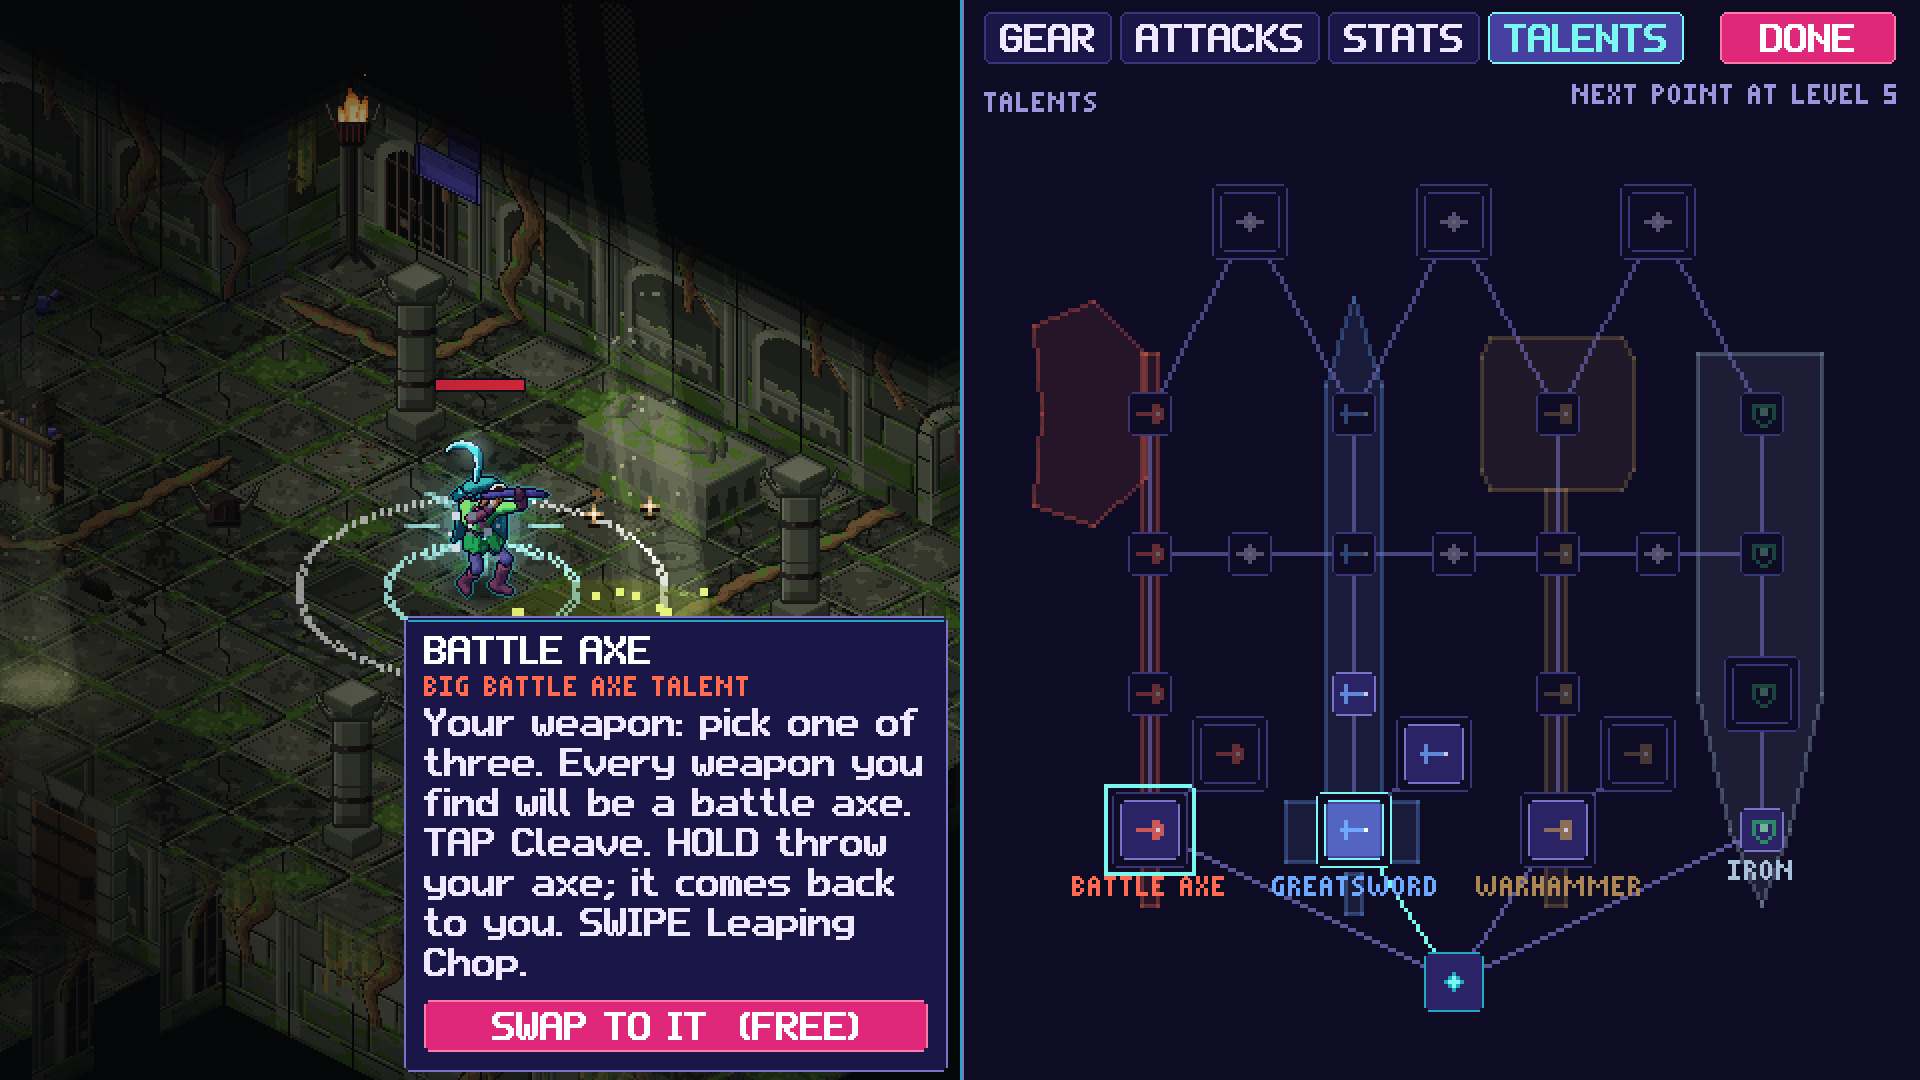
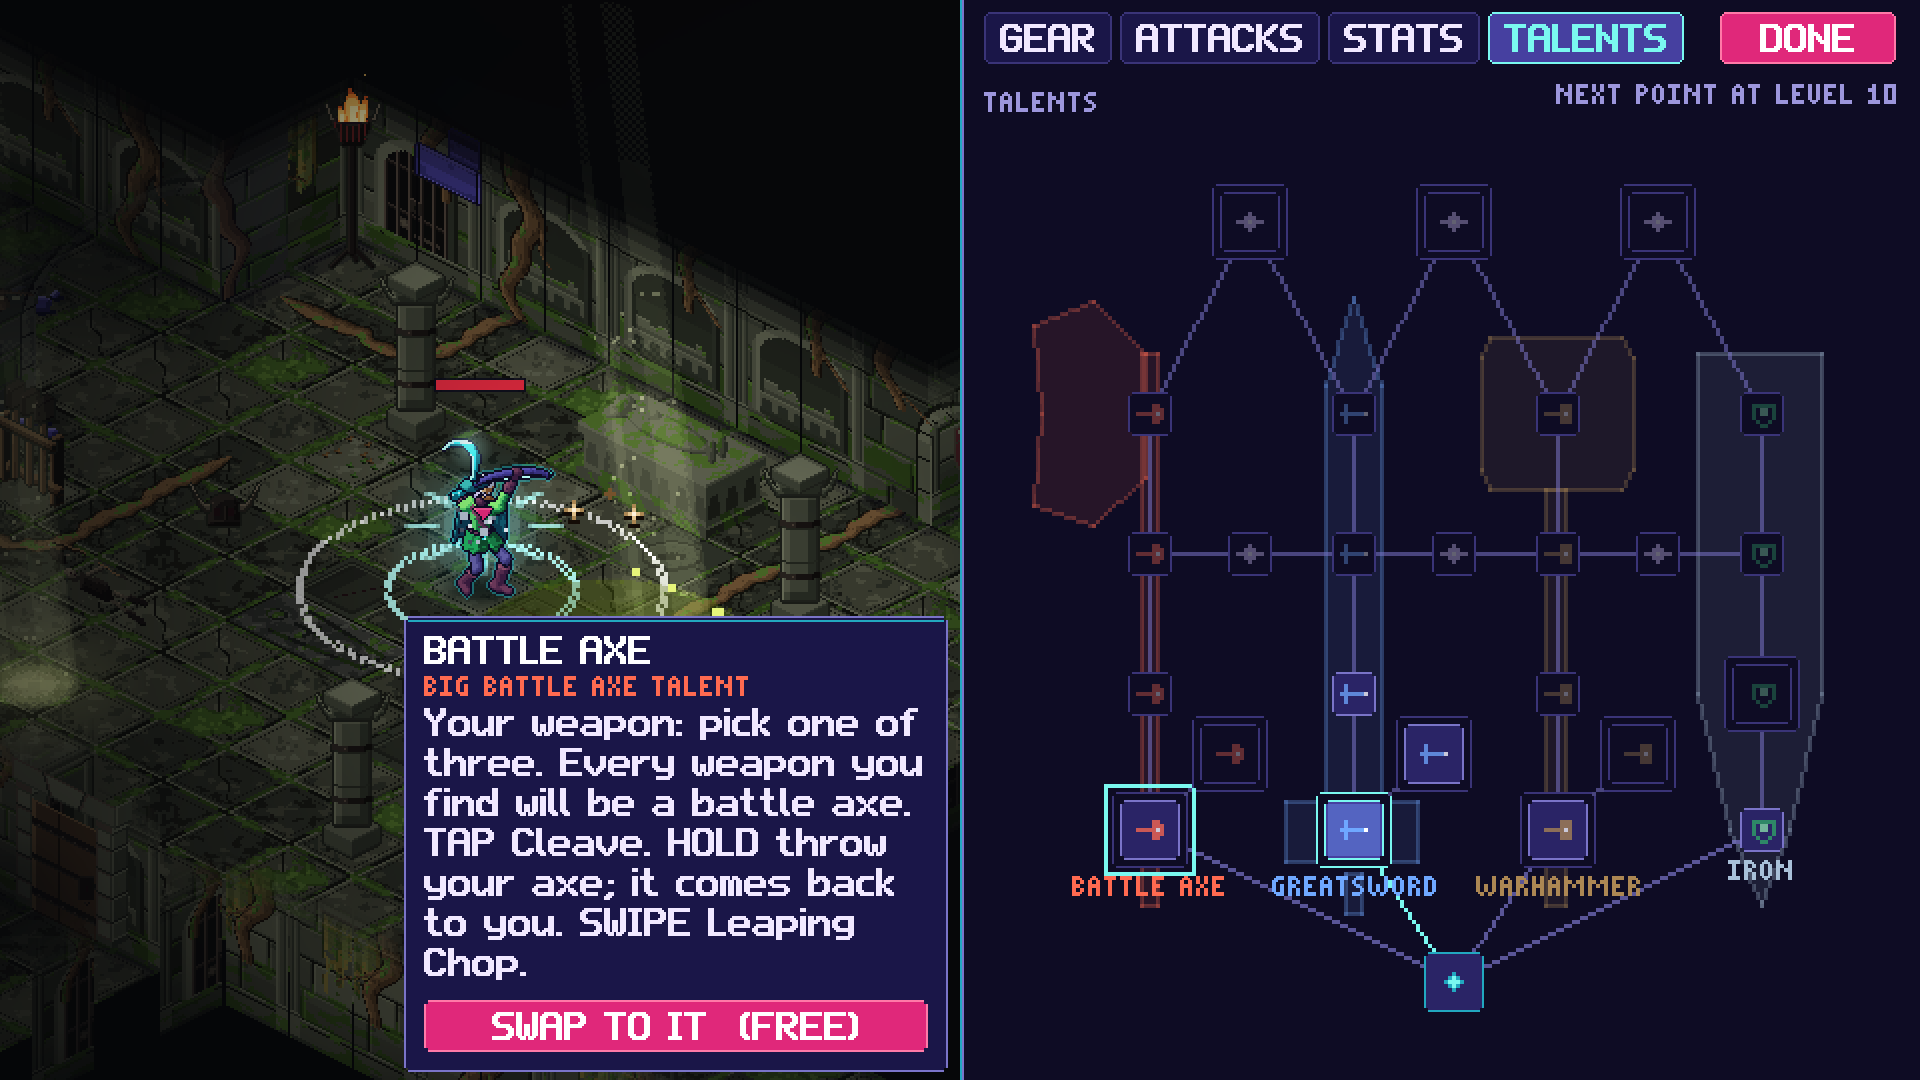
Godot: the Warrior's weapon is his first talent point, given early (no free point)
His word: "And I don't like that warrior starts with a talent point.  How can we allow the switch at level 1 without just
giving the player a free talent point?" His weapon counts among his points again (talents.gd spent), as the game has
it, but it is his from level 1 and swapped for nothing more while its path holds nothing else: level 5's point is the
one his weapon took, his next to spend comes at level 10 (next_point; NEXT POINT AT LEVEL 10 over his tree, and in a
talent's "Next point at level" line), and over the game he has ten, as every hero, one of them his weapon. Talents
82/82.

Claude-Session: https://claude.ai/code/session_01JYSqoVEeoMVs56KGNxXie3

Changed region(s): [[0.2188, 0.3972, 0.3438, 0.5194], [0.8125, 0.0611, 0.9688, 0.0917]]

diff --git a/godot/README.md b/godot/README.md
@@ -1284,11 +1284,15 @@ warrior has an issue where he starts with the greatsword but would have to pay a
 he can swap to axe or hammer at level 1.”, “And make sure the words, talents, and uniques all work together correctly to
 augment attacks.  I want things to compound as they are added to attacks or abilities.”
 
-- **The Warrior's weapon, free** (`talents.gd` is_weapon, spent, starting, swap_out; `inventory.gd`, `talents_page.gd`,
-  `hud.gd`): his weapon costs no point; the greatsword his as he starts; the battle axe or the warhammer taken in its place
-  at any level, anywhere, for nothing (SWAP TO IT (FREE) on its card), so long as nothing more on the old one's path is
-  taken (“Undo the greatsword's talents first”); a weapon is never undone, only swapped (“Take another to swap”); an old save
-  with no weapon given the greatsword. `--only=talents`: 82 checks (a new Warrior at level 1 swapping to the axe and back).
+- **The Warrior's weapon, his first point given early** (`talents.gd` is_weapon, spent, next_point, starting, swap_out;
+  `inventory.gd`, `talents_page.gd`, `hud.gd`): first made free, then, at his word the morning after (“And I don't like that
+  warrior starts with a talent point.  How can we allow the switch at level 1 without just giving the player a free talent
+  point?”), his first point as the game has it, but his from level 1: the greatsword his as he starts; the battle axe or the
+  warhammer taken in its place at any level, anywhere, for nothing more (SWAP TO IT (FREE) on its card), so long as nothing
+  more on the old one's path is taken (“Undo the greatsword's talents first”); a weapon is never undone, only swapped (“Take
+  another to swap”). It counts among his points: the point level 5 brings is the one his weapon took, so his next to spend comes
+  at level 10 (NEXT POINT AT LEVEL 10 over his tree), and over the game he has ten, as every hero has, one of them his weapon.
+  `--only=talents`: 82 checks (a new Warrior at level 1 swapping to the axe and back).
 - **What he adds compounds** (`hero.gd` side, word_k, talent_hit; `words.gd` resolve `word_k`): a blow of one of his moves
   was made of everything already, each a multiplier on the rest. What else he sets off now is too: a talent's arc or its
   burning ground, a unique's own blow, a companion's bite, the Golem's coil, the ground a word behind leaves, the last
